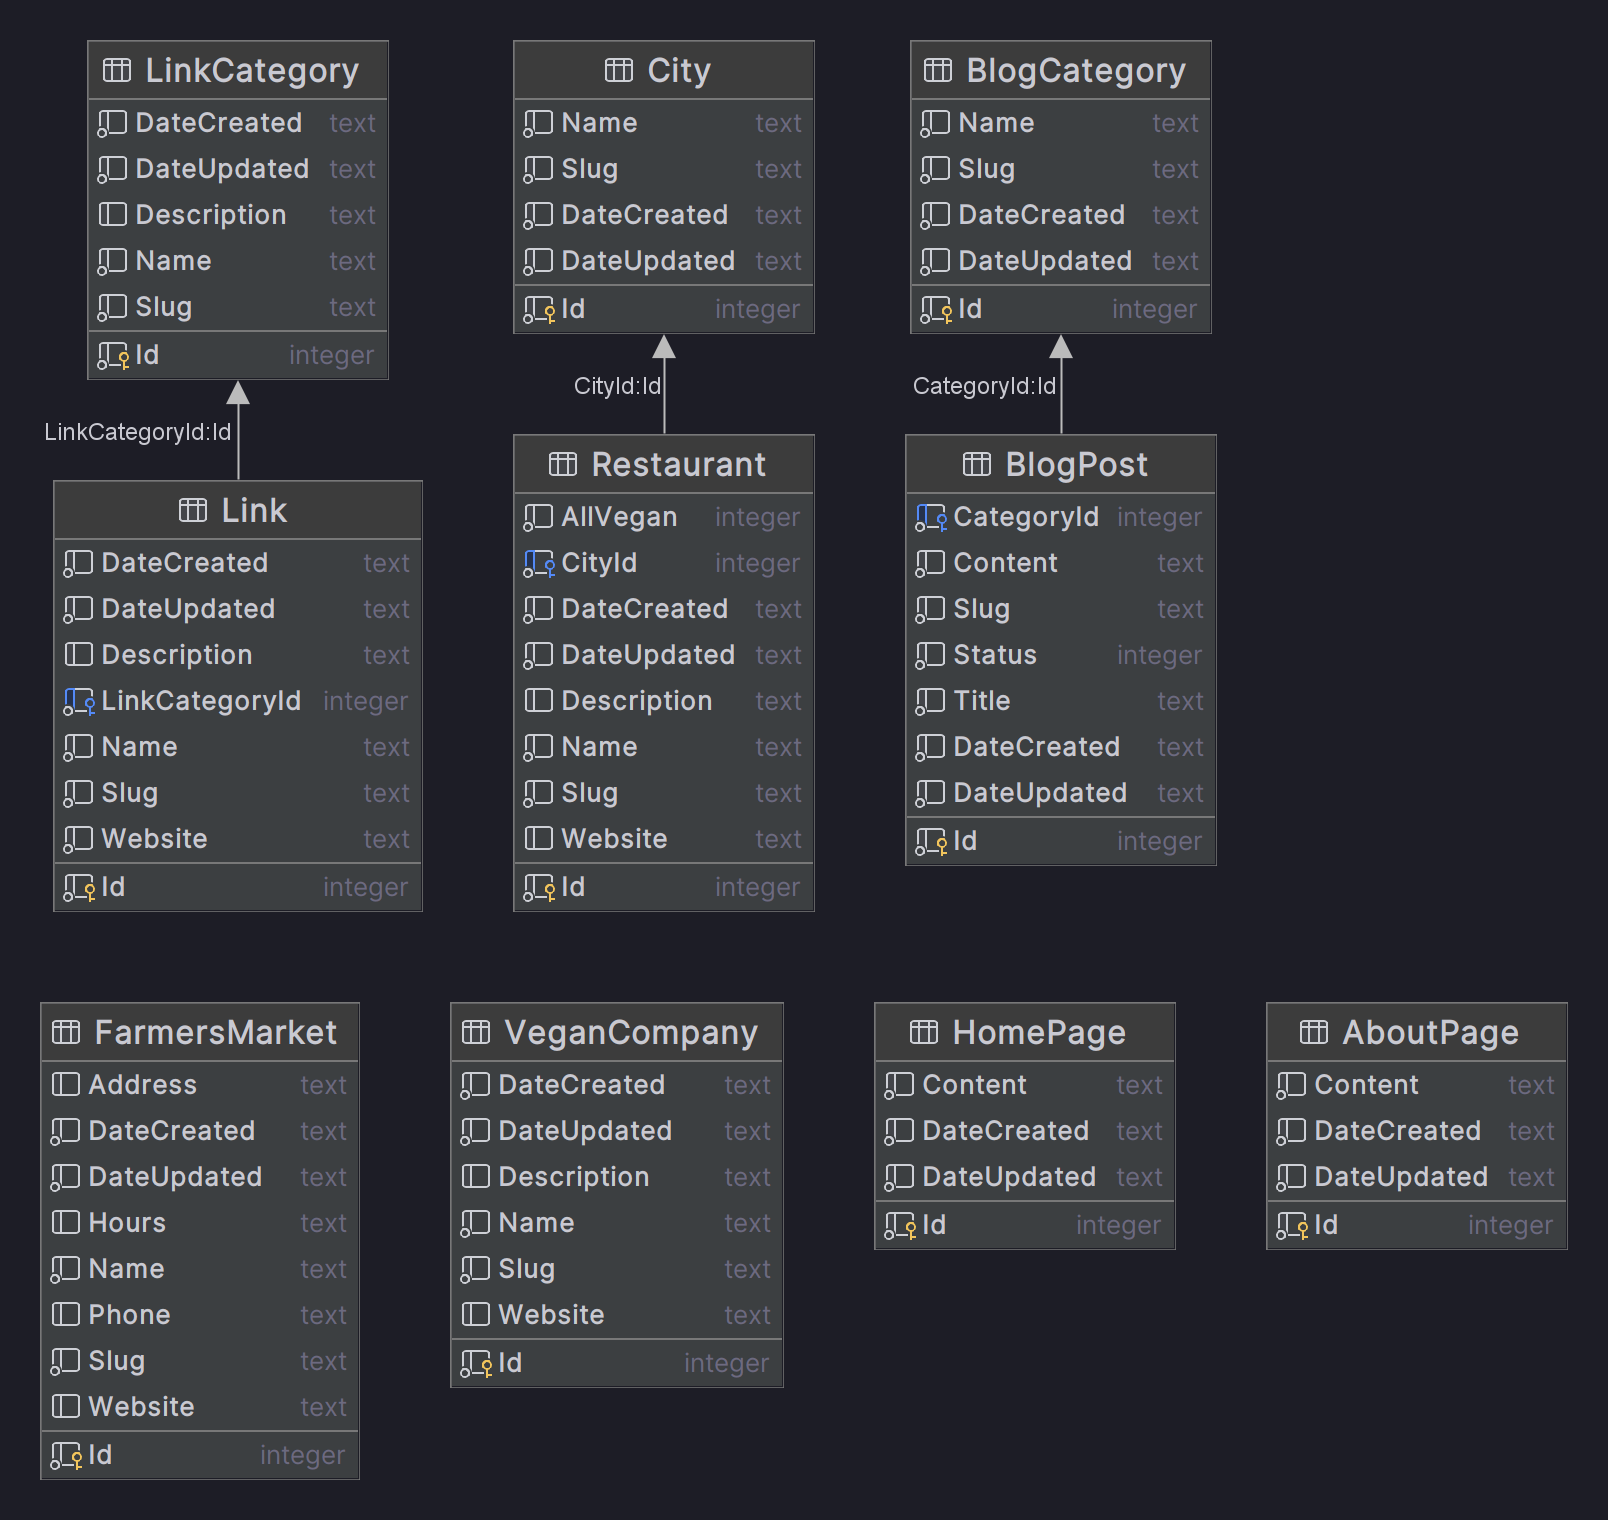
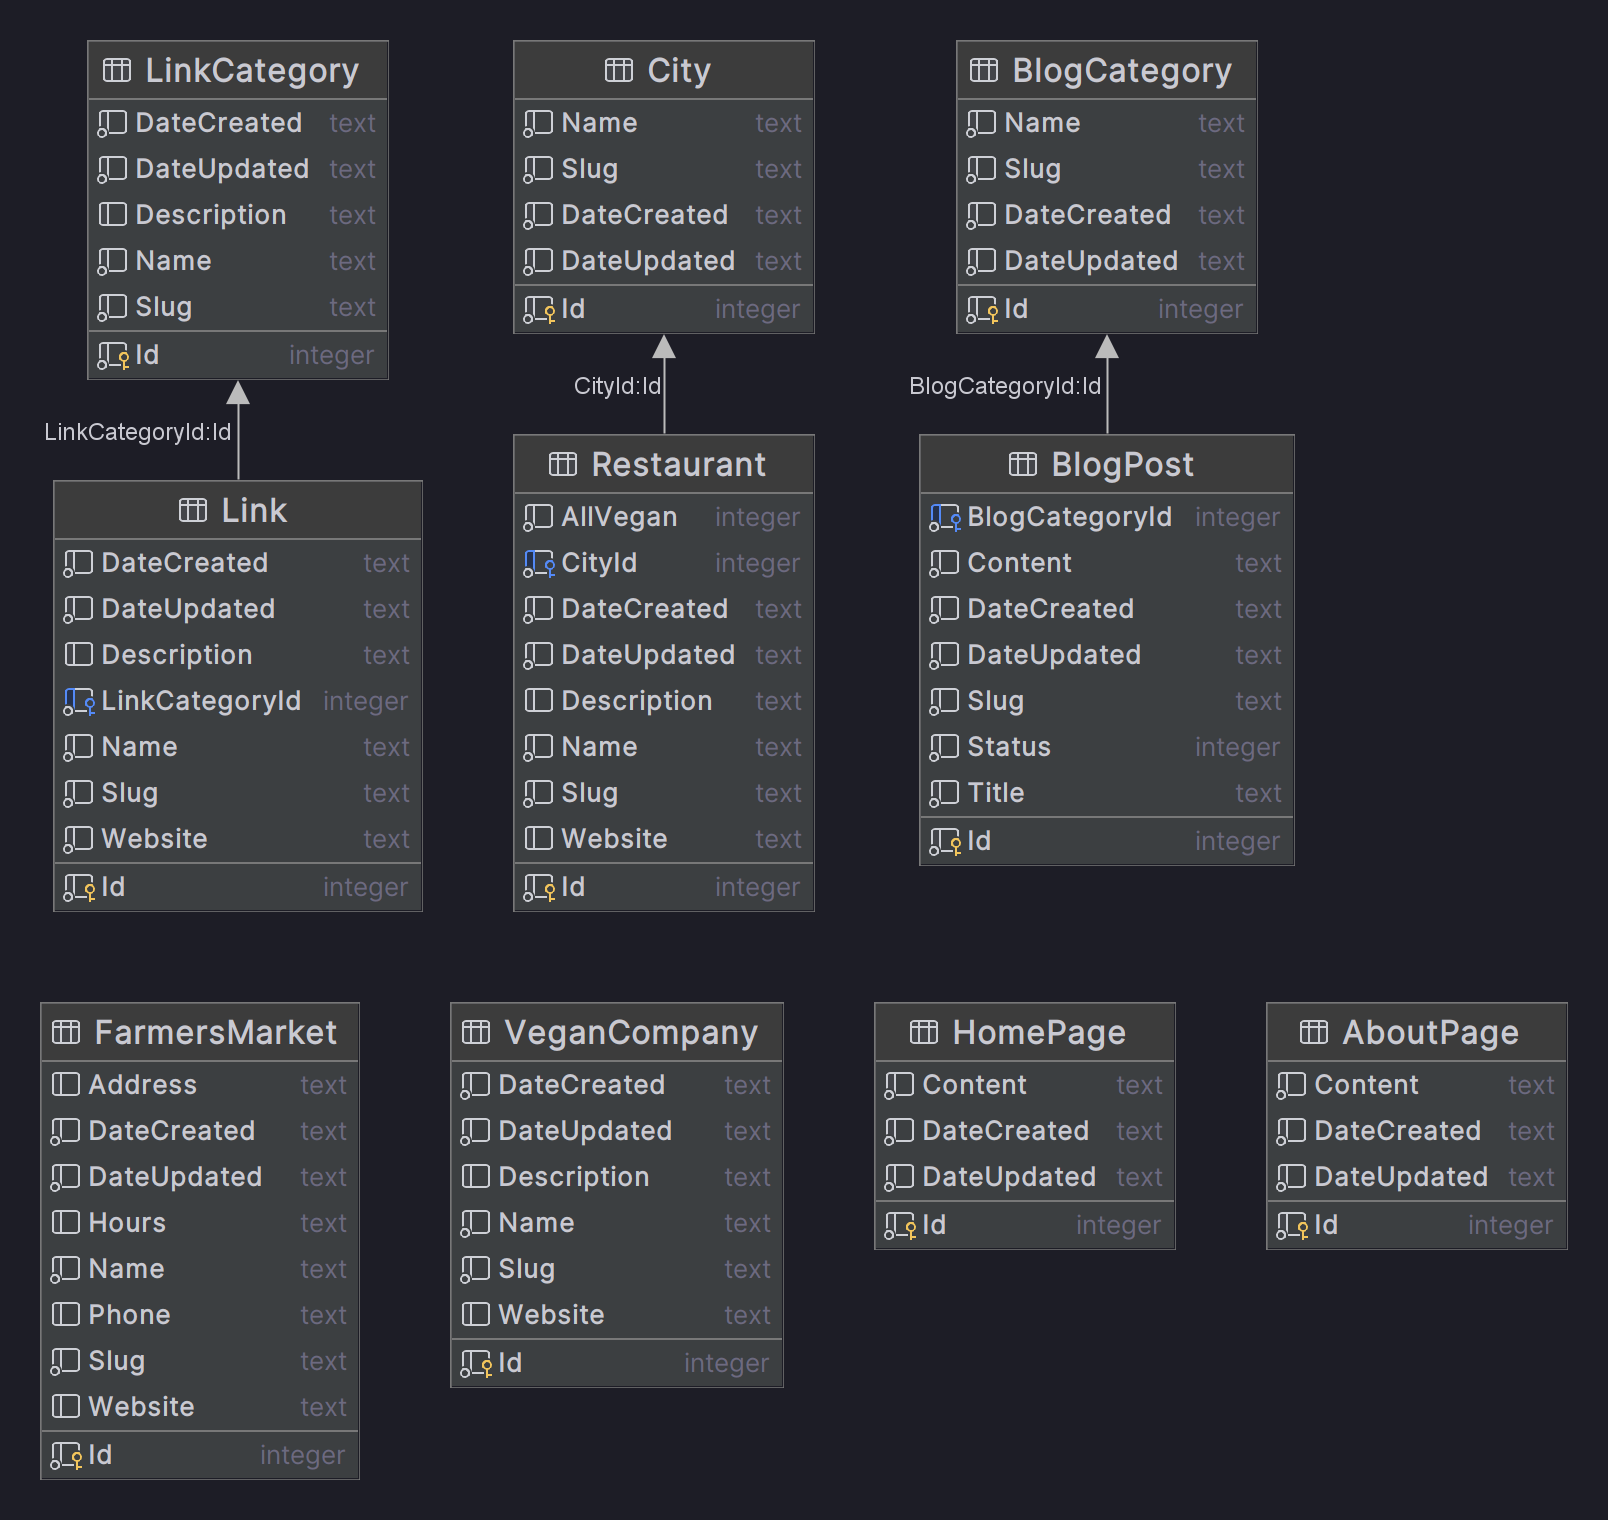
Add BlogCategoryId to BlogPost

Changed region(s): [[0.5597, 0.2164, 0.8085, 0.5875], [0.5597, 0.0, 0.8085, 0.2164]]

diff --git a/src/VegDex.Infrastructure/Migrations/20230406164726_AddBlogCategoryId.cs b/src/VegDex.Infrastructure/Migrations/20230406164726_AddBlogCategoryId.cs
@@ -1,0 +1,91 @@
+using System;
+using Microsoft.EntityFrameworkCore.Migrations;
+
+#nullable disable
+
+namespace VegDex.Infrastructure.Migrations
+{
+    /// <inheritdoc />
+    public partial class AddBlogCategoryId : Migration
+    {
+        /// <inheritdoc />
+        protected override void Up(MigrationBuilder migrationBuilder)
+        {
+            migrationBuilder.DropForeignKey(
+                name: "FK_BlogPost_BlogCategory_CategoryId",
+                table: "BlogPost");
+
+            migrationBuilder.RenameColumn(
+                name: "CategoryId",
+                table: "BlogPost",
+                newName: "BlogCategoryId");
+
+            migrationBuilder.RenameIndex(
+                name: "IX_BlogPost_CategoryId",
+                table: "BlogPost",
+                newName: "IX_BlogPost_BlogCategoryId");
+
+            migrationBuilder.UpdateData(
+                table: "AboutPage",
+                keyColumn: "Id",
+                keyValue: 1,
+                columns: new[] { "DateCreated", "DateUpdated" },
+                values: new object[] { new DateTime(2023, 4, 6, 11, 47, 25, 900, DateTimeKind.Local).AddTicks(6009), new DateTime(2023, 4, 6, 11, 47, 25, 900, DateTimeKind.Local).AddTicks(6024) });
+
+            migrationBuilder.UpdateData(
+                table: "HomePage",
+                keyColumn: "Id",
+                keyValue: 1,
+                columns: new[] { "DateCreated", "DateUpdated" },
+                values: new object[] { new DateTime(2023, 4, 6, 11, 47, 25, 900, DateTimeKind.Local).AddTicks(113), new DateTime(2023, 4, 6, 11, 47, 25, 900, DateTimeKind.Local).AddTicks(162) });
+
+            migrationBuilder.AddForeignKey(
+                name: "FK_BlogPost_BlogCategory_BlogCategoryId",
+                table: "BlogPost",
+                column: "BlogCategoryId",
+                principalTable: "BlogCategory",
+                principalColumn: "Id",
+                onDelete: ReferentialAction.Cascade);
+        }
+
+        /// <inheritdoc />
+        protected override void Down(MigrationBuilder migrationBuilder)
+        {
+            migrationBuilder.DropForeignKey(
+                name: "FK_BlogPost_BlogCategory_BlogCategoryId",
+                table: "BlogPost");
+
+            migrationBuilder.RenameColumn(
+                name: "BlogCategoryId",
+                table: "BlogPost",
+                newName: "CategoryId");
+
+            migrationBuilder.RenameIndex(
+                name: "IX_BlogPost_BlogCategoryId",
+                table: "BlogPost",
+                newName: "IX_BlogPost_CategoryId");
+
+            migrationBuilder.UpdateData(
+                table: "AboutPage",
+                keyColumn: "Id",
+                keyValue: 1,
+                columns: new[] { "DateCreated", "DateUpdated" },
+                values: new object[] { new DateTime(2023, 4, 6, 9, 55, 22, 405, DateTimeKind.Local).AddTicks(866), new DateTime(2023, 4, 6, 9, 55, 22, 405, DateTimeKind.Local).AddTicks(883) });
+
+            migrationBuilder.UpdateData(
+                table: "HomePage",
+                keyColumn: "Id",
+                keyValue: 1,
+                columns: new[] { "DateCreated", "DateUpdated" },
+                values: new object[] { new DateTime(2023, 4, 6, 9, 55, 22, 404, DateTimeKind.Local).AddTicks(1201), new DateTime(2023, 4, 6, 9, 55, 22, 404, DateTimeKind.Local).AddTicks(1246) });
+
+            migrationBuilder.AddForeignKey(
+                name: "FK_BlogPost_BlogCategory_CategoryId",
+                table: "BlogPost",
+                column: "CategoryId",
+                principalTable: "BlogCategory",
+                principalColumn: "Id",
+                onDelete: ReferentialAction.Cascade);
+        }
+    }
+}

diff --git a/src/VegDex.Infrastructure/Migrations/20230406164726_AddBlogCategoryId.Designer.cs b/src/VegDex.Infrastructure/Migrations/20230406164726_AddBlogCategoryId.Designer.cs
@@ -2,6 +2,7 @@
 using System;
 using Microsoft.EntityFrameworkCore;
 using Microsoft.EntityFrameworkCore.Infrastructure;
+using Microsoft.EntityFrameworkCore.Migrations;
 using Microsoft.EntityFrameworkCore.Storage.ValueConversion;
 using VegDex.Infrastructure.Context;
 
@@ -10,9 +11,11 @@ using VegDex.Infrastructure.Context;
 namespace VegDex.Infrastructure.Migrations
 {
     [DbContext(typeof(VegDexContext))]
-    partial class VegDexContextModelSnapshot : ModelSnapshot
+    [Migration("20230406164726_AddBlogCategoryId")]
+    partial class AddBlogCategoryId
     {
-        protected override void BuildModel(ModelBuilder modelBuilder)
+        /// <inheritdoc />
+        protected override void BuildTargetModel(ModelBuilder modelBuilder)
         {
 #pragma warning disable 612, 618
             modelBuilder.HasAnnotation("ProductVersion", "7.0.4");

diff --git a/src/VegDex.Core/Entities/BlogPost.cs b/src/VegDex.Core/Entities/BlogPost.cs
@@ -5,6 +5,7 @@ namespace VegDex.Core.Entities;
 public class BlogPost : Entity
 {
     public BlogPost() { }
+    public int BlogCategoryId { get; set; }
     public BlogCategory Category { get; set; }
     public string Content { get; set; }
     public string Slug { get; set; }
